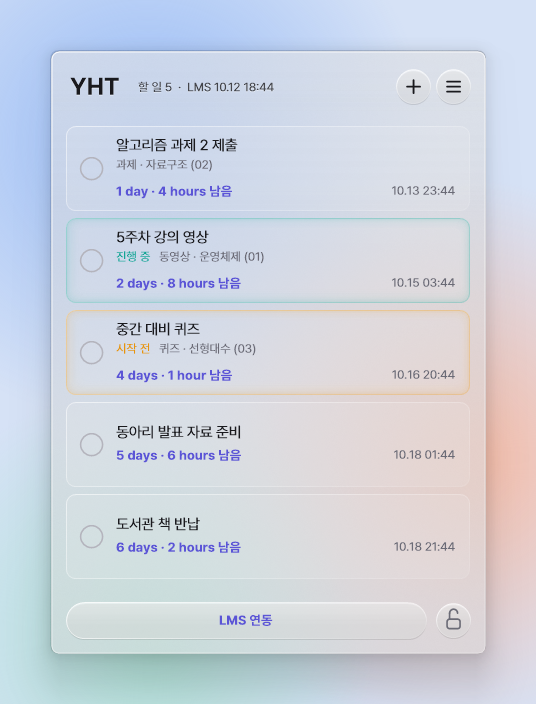
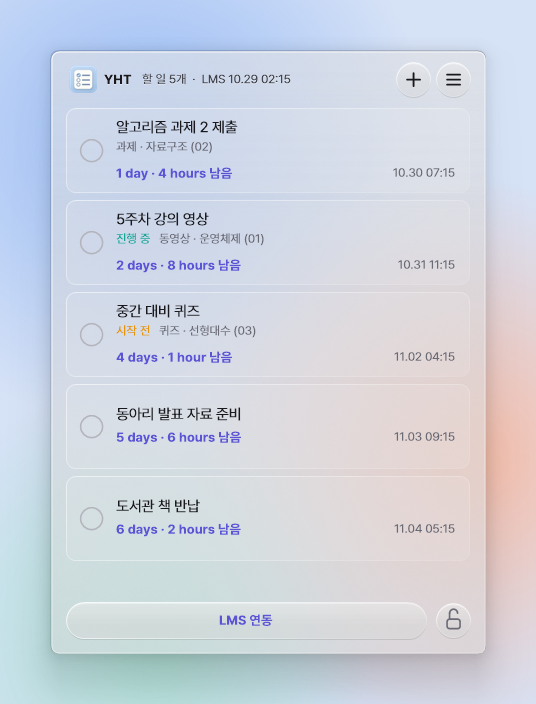
Update screenshots and feature descriptions for YHT 10.6
- New captures of the current widget (logo header, status words instead of card glow)
- Course switches, hide-upcoming, automatic update and patch notes described
- Privacy note mentions the update check

diff --git a/index.html b/index.html
@@ -146,13 +146,14 @@ footer{border-top:1px solid var(--line);padding-top:22px;color:var(--slate);font
   </section>
 
   <section class="feature flip">
-    <div class="shot"><img src="hero-dark.png" alt="다크 글래스 스타일의 YHT 위젯. 지금 볼 수 있는 강의 영상 카드는 청록빛, 아직 열리지 않은 퀴즈 카드는 주황빛이 가장자리에 감돈다."></div>
+    <div class="shot"><img src="menu-courses.png" alt="YHT 메뉴가 열려 있고, LMS 과목별 업데이트 하위 메뉴에 과목마다 켜고 끄는 스위치가 보인다. 웹프로그래밍 과목만 꺼져 있다."></div>
     <div>
-      <h2>지금 할 수 있는 일은 빛으로 구분합니다</h2>
-      <p>카드 가장자리에 은은한 빛이 돕니다. 표를 읽지 않아도 무엇부터 손댈 수 있는지 보입니다.</p>
+      <h2>보고 싶은 과목만, 지금 할 수 있는 일부터</h2>
+      <p>LMS에 있는 모든 걸 다 볼 필요는 없습니다. 과목마다 스위치를 켜고 끌 수 있고, 학기가 바뀌면 새 학기 과목이 알아서 나타납니다.</p>
       <ul>
         <li><span class="go">진행 중</span> 지금 제출하거나 시청할 수 있는 활동</li>
-        <li><span class="wait">시작 전</span> 아직 열리지 않은 활동</li>
+        <li><span class="wait">시작 전</span> 아직 열리지 않은 활동. 숨겨 두면 시작 시간에 맞춰 나타납니다</li>
+        <li>메뉴 › LMS 과목별 업데이트에서 과목마다 켜고 끄기</li>
         <li>마감이 지난 항목은 남은 시간이 붉게 바뀝니다</li>
         <li>끝낸 일은 동그라미를 눌러 지우고, 5초 안에 다시 누르면 되돌립니다</li>
       </ul>
@@ -166,8 +167,23 @@ footer{border-top:1px solid var(--line);padding-top:22px;color:var(--slate);font
       <p>LMS는 들어가야 보이지만 바탕화면은 켜면 보입니다. YHT는 다른 창 위로 올라오지 않고 바탕화면에 머뭅니다. 평소에는 잠겨 있어서 실수로 눌리지 않고, 더블 클릭하거나 자물쇠를 누르면 열립니다.</p>
       <ul>
         <li>Windows를 켜면 함께 시작</li>
+        <li>머리글에 남은 할 일 개수와 마지막 LMS 동기화 시각</li>
         <li>위쪽을 끌어 옮기고 가장자리를 끌어 크기 조절</li>
         <li>우클릭 한 번으로 메뉴와 모든 옵션</li>
+      </ul>
+    </div>
+  </section>
+
+  <section class="feature flip">
+    <div class="shot"><img src="patch-notes.png" alt="YHT 패치내역 창. 10.6 버전에서 바뀐 점이 목록으로 정리되어 있다."></div>
+    <div>
+      <h2>한 번 깔면 알아서 최신 버전</h2>
+      <p>새 버전이 나오면 YHT가 스스로 내려받아 바꾸고 다시 켜집니다. 할 일과 설정은 그대로입니다. 무엇이 바뀌었는지는 업데이트 알림이나 메뉴 › 패치내역에서 볼 수 있습니다.</p>
+      <ul>
+        <li>켜질 때와 3시간마다 새 버전 확인</li>
+        <li>개발자 서명이 확인된 파일만 설치</li>
+        <li>메뉴 › 업데이트 확인으로 바로 받기</li>
+        <li>메뉴 › 옵션 › 자동 업데이트로 끄기</li>
       </ul>
     </div>
   </section>
@@ -200,7 +216,7 @@ footer{border-top:1px solid var(--line);padding-top:22px;color:var(--slate);font
     <dl>
       <div><dt>학교 공식 프로그램이 아닙니다</dt><dd>학생 한 명이 만들어 쓰는 비공식 도구입니다. 한국기술교육대학교와는 관련이 없습니다.</dd></div>
       <div><dt>코드 서명이 없습니다</dt><dd>그래서 Windows가 처음 실행할 때 경고를 띄웁니다. 확장 프로그램도 스토어에 등록되지 않은 개발자 설치판입니다.</dd></div>
-      <div><dt>데이터는 내 PC에만 남습니다</dt><dd>확장 프로그램은 LMS의 제목, 강좌, 기한, 과제 설명만 읽어 이 PC의 YHT로 넘깁니다. 외부 서버로 보내지 않습니다.</dd></div>
+      <div><dt>데이터는 내 PC에만 남습니다</dt><dd>확장 프로그램은 LMS의 제목, 강좌, 기한, 과제 설명만 읽어 이 PC의 YHT로 넘깁니다. 외부 서버로 보내지 않습니다. YHT가 인터넷에 접속하는 것은 새 버전 확인뿐입니다.</dd></div>
       <div><dt>자동 로그인은 선택입니다</dt><dd>계정을 저장하면 크롬 로그인 화면에 대신 입력합니다. 저장하지 않아도 크롬에서 직접 로그인하면 똑같이 동작합니다.</dd></div>
       <div><dt>글꼴과 효과</dt><dd>Pretendard가 설치되어 있으면 Pretendard로, 없으면 맑은 고딕으로 보입니다. 블러와 둥근 모서리는 Windows 11에서 가장 깔끔합니다.</dd></div>
       <div><dt>파일 확인</dt><dd>YHT.exe의 SHA-256<br><span class="hash">c615d6932490f038b85045fea705c0a951288741ab86b150a77893656b60a153</span></dd></div>
